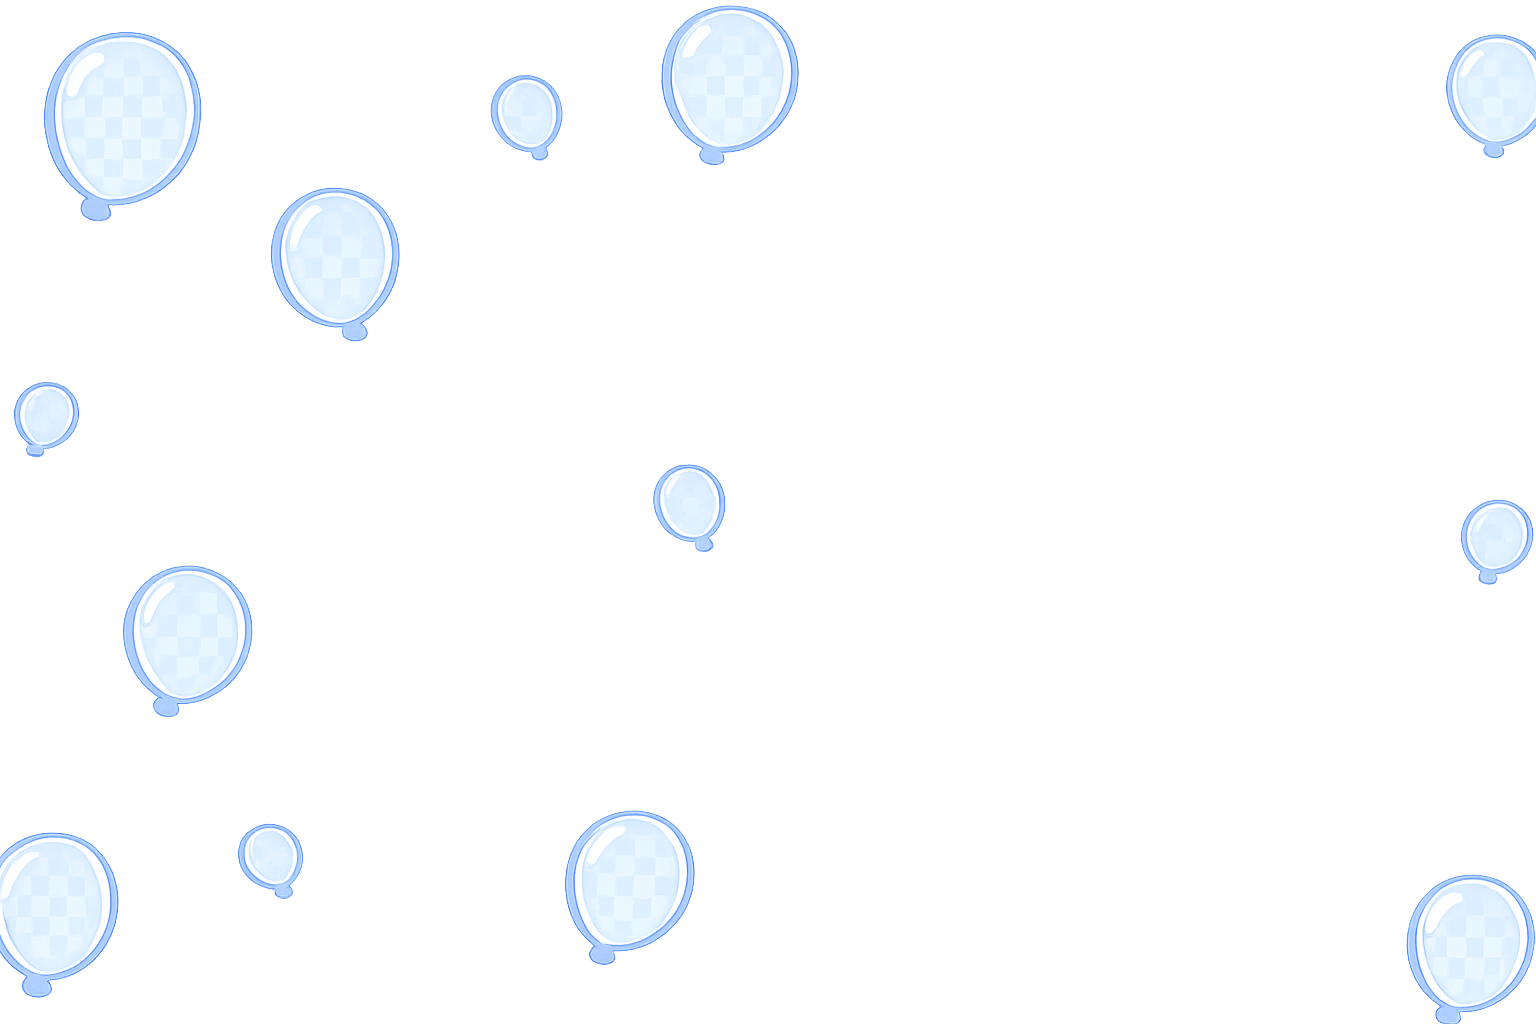
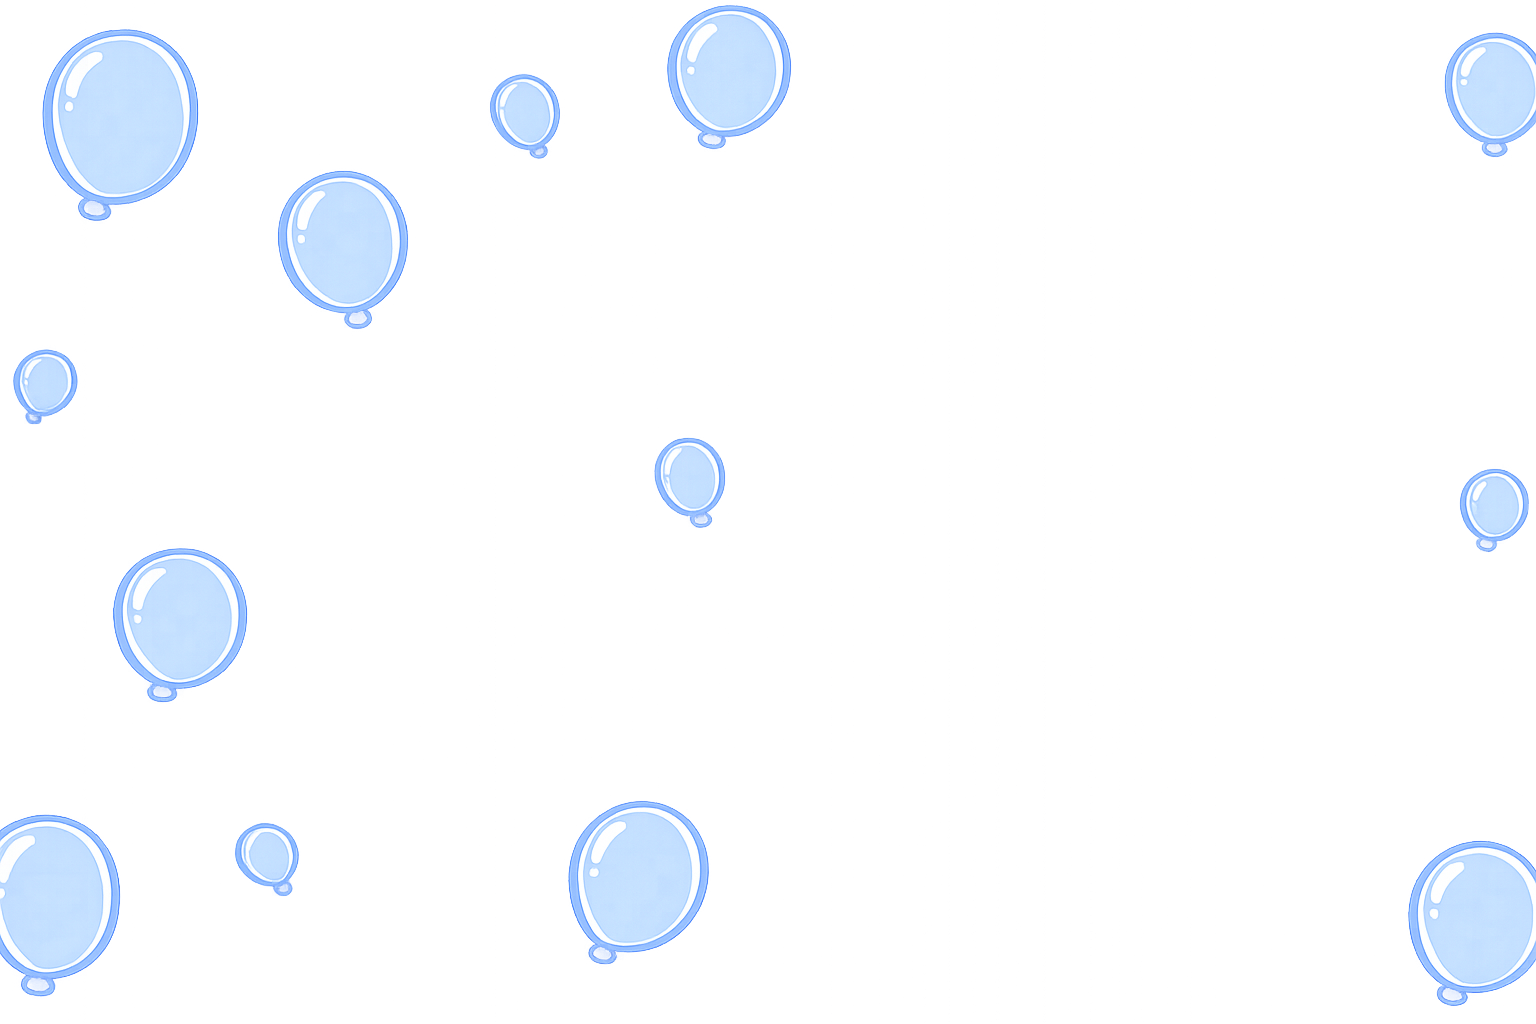
fix: update image sizes and layout for improved responsiveness in cadastro and senha pages

diff --git a/Login_Cadatro/CSS/senha-alterada.css b/Login_Cadatro/CSS/senha-alterada.css
@@ -163,13 +163,24 @@ body::before {
     body {
         flex-direction: column;
         justify-content: center;
+        align-items: center;
     }
 
     .estrelas--front { display: none; }
 
     .personagemImg {
-        width: 55vw;
-        max-height: 40vh;
+        width: 70vw;
+        max-height: 70vh;
+        margin-bottom: -5rem; /* ← zera todos os margins do desktop */
+        margin-left: 1rem;
+    }
+
+    .conteudo {
+        margin-left: 0; /* ← remove o -20vw do desktop */
+        padding: 0 2rem 2rem;
+        gap: 0.5rem;
+        align-items: center; /* ← garante que o texto e botão ficam centralizados */
+        text-align: center;
     }
 
     .titulo { font-size: 2rem; }
@@ -181,7 +192,11 @@ body::before {
 }
 
 @media (max-width: 600px) {
-    .personagemImg { width: 70vw; max-height: 35vh; }
-    .titulo { font-size: 1.7rem; }
+    .personagemImg { width: 70vw; max-height: 70vh; margin-left: 3vw; margin-bottom: -5rem; }
+    .titulo { 
+        font-size: 1.7rem;
+        text-align: center; /* ← garante centralização */
+        width: 100%;
+    }
     .btn-voltar { padding: 0.85rem 1.5rem; font-size: 0.95rem; }
 }

diff --git a/Login_Cadatro/CSS/cadastro-feito.css b/Login_Cadatro/CSS/cadastro-feito.css
@@ -177,8 +177,9 @@ body::before {
     }
 
     .personagemImg {
-        width: 55vw;
-        max-height: 40vh;
+        width: 70vw;
+        max-height: 70vh;
+        margin-bottom: -7rem;
     }
 
     .titulo { font-size: 2rem; }
@@ -186,7 +187,7 @@ body::before {
 }
 
 @media (max-width: 600px) {
-    .personagemImg { width: 70vw; max-height: 35vh; }
+    .personagemImg { width: 70vw; max-height: 70vh; margin-bottom: -7rem; }
     .titulo { font-size: 1.7rem; }
     .btn-voltar { padding: 0.85rem 1.5rem; font-size: 0.95rem; }
 }